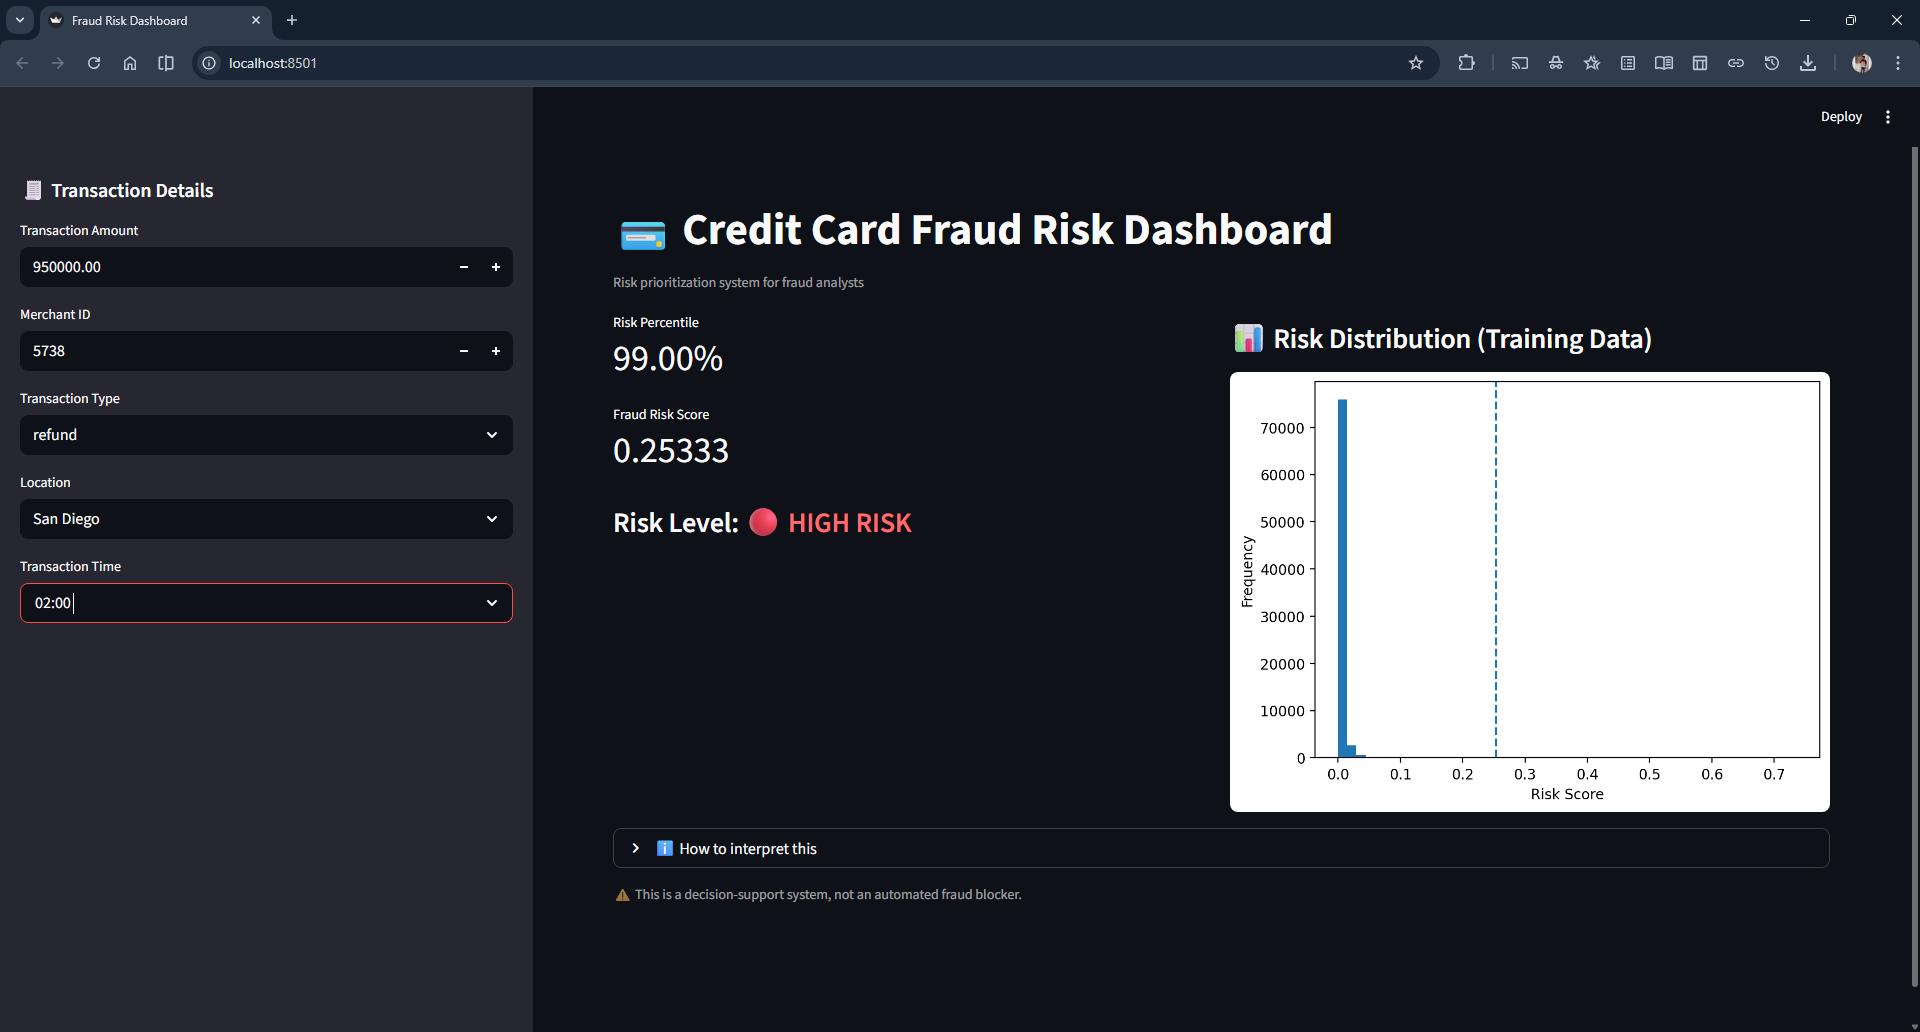
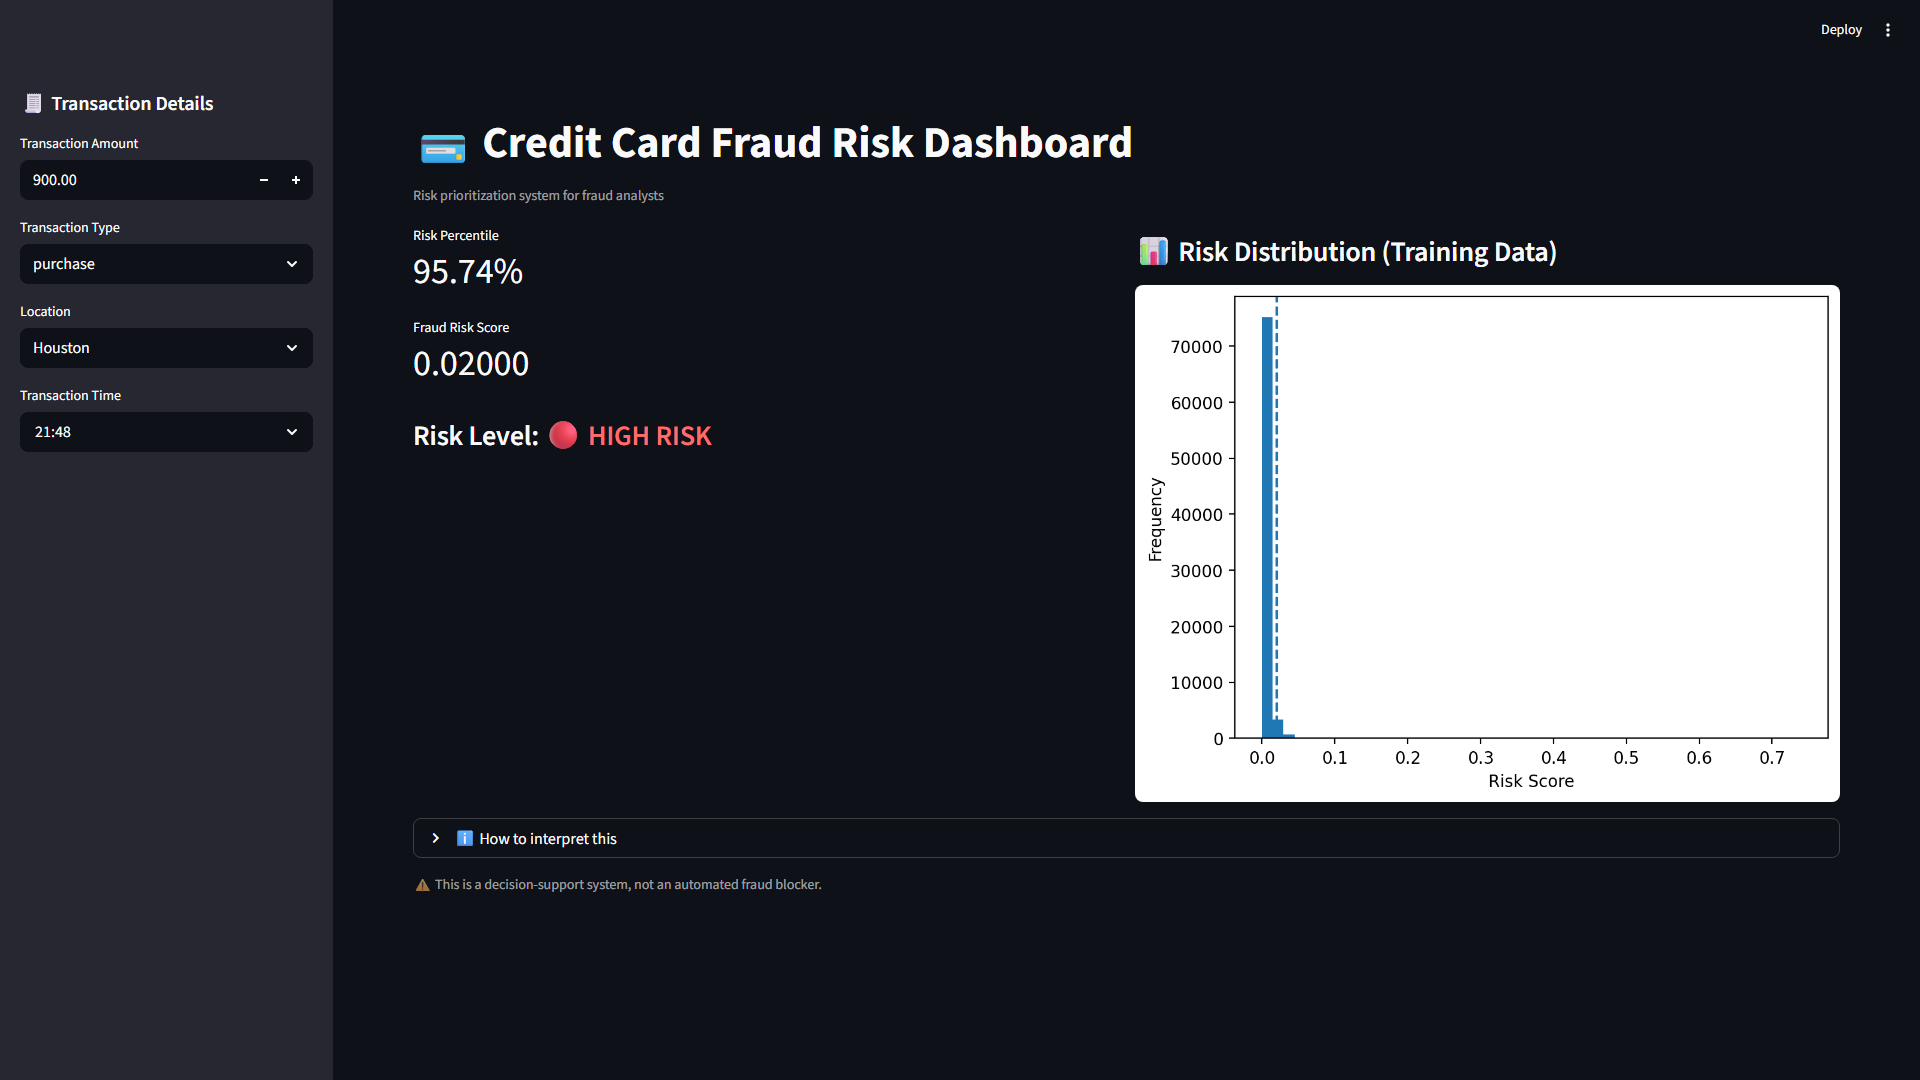
src, backend, frontend and readme.md updation

Changed region(s): [[0.0, 0.0, 1.0, 1.0], [0.3125, 0.186, 0.9688, 0.8062], [0.3125, 0.4961, 0.4688, 0.5271]]

diff --git a/src/components/feature_engineering.py b/src/components/feature_engineering.py
@@ -6,7 +6,7 @@ Handles feature extraction and preprocessing for fraud detection
 import pandas as pd
 import numpy as np
 from datetime import datetime
-from typing import List
+from typing import List, Optional
 
 from src.logger import get_logger
 from src.exception import FeatureEngineeringError
@@ -105,18 +105,7 @@ class FeatureEngineering:
             # Extract temporal features
             df = self.extract_temporal_features(df)
 
-            # Aggregated merchant/location features (computed on available df)
-            if "MerchantID" in df.columns:
-                df["merchant_fraud_rate"] = df.groupby("MerchantID")["IsFraud"].transform("mean")
-                df["amount_vs_merchant_mean"] = df["Amount"] / df.groupby("MerchantID")["Amount"].transform("mean")
-                df["merchant_txn_count"] = df.groupby("MerchantID")["MerchantID"].transform("count")
-                df["merchant_fraud_rate"] = df["merchant_fraud_rate"].fillna(0)
-                df["amount_vs_merchant_mean"] = df["amount_vs_merchant_mean"].fillna(0)
-                df["merchant_txn_count"] = df["merchant_txn_count"].fillna(0)
 
-            if "Location" in df.columns:
-                df["location_fraud_rate"] = df.groupby("Location")["IsFraud"].transform("mean")
-                df["location_fraud_rate"] = df["location_fraud_rate"].fillna(0)
 
             # high amount flag
             df["high_amount"] = (df["Amount"] > df["Amount"].quantile(0.95)).astype(int)
@@ -134,7 +123,6 @@ class FeatureEngineering:
     def prepare_user_input(
         self,
         amount: float,
-        merchant_id: int,
         transaction_type: str,
         location: str,
         transaction_time: datetime,
@@ -146,7 +134,6 @@ class FeatureEngineering:
 
         Args:
             amount: Transaction amount
-            merchant_id: Merchant ID
             transaction_type: Type of transaction (purchase/refund)
             location: Transaction location
             transaction_time: Time of transaction
@@ -166,14 +153,18 @@ class FeatureEngineering:
         weekday = now.weekday()
         is_weekend = int(weekday in [5, 6])
 
-        # Base input dictionary
+        # Base input dictionary (only include MerchantID if provided)
+        is_night = int(hour >= 0 and hour <= 5)
+        high_amount = int(amount > 1000)
+
         input_dict = {
             "Amount": amount,
-            "MerchantID": merchant_id,
             "hour": hour,
             "day": day,
             "weekday": weekday,
-            "is_weekend": is_weekend
+            "is_weekend": is_weekend,
+            "is_night": is_night,
+            "high_amount": high_amount
         }
 
         # Initialize all expected columns with 0

diff --git a/app.py b/app.py
@@ -40,10 +40,17 @@ prediction_pipeline = load_prediction_pipeline()
 # -------------------------------
 # SIDEBAR INPUTS
 # -------------------------------
+if "transaction_time" not in st.session_state:
+    st.session_state.transaction_time = datetime.datetime.now().time()
+
 st.sidebar.header("🧾 Transaction Details")
 
-amount = st.sidebar.number_input("Transaction Amount", 1.0, 1000000.0, 2500.0)
-# Merchant ID removed to match notebook (not used as a direct feature)
+amount = st.sidebar.number_input(
+    "Transaction Amount",
+    1.0,
+    1000000.0,
+    2500.0
+)
 
 transaction_type = st.sidebar.selectbox(
     "Transaction Type",
@@ -55,7 +62,14 @@ location = st.sidebar.selectbox(
     LOCATIONS
 )
 
-transaction_time = st.sidebar.time_input("Transaction Time")
+
+transaction_time = st.sidebar.time_input(
+    "Transaction Time",
+    value=st.session_state.transaction_time,
+    step=60
+)
+
+st.session_state.transaction_time = transaction_time
 
 # -------------------------------
 # FEATURE ENGINEERING
@@ -66,7 +80,8 @@ hour = transaction_time.hour
 day = now.day
 weekday = now.weekday()
 is_weekend = int(weekday in [5, 6])
-
+is_night = int(hour >= 0 and hour <= 5)
+high_amount = int(amount > 1000)
 # Prepare transaction data for prediction
 transaction_data = {
     "Amount": amount,
@@ -75,7 +90,9 @@ transaction_data = {
     "hour": hour,
     "day": day,
     "weekday": weekday,
-    "is_weekend": is_weekend
+    "is_weekend": is_weekend,
+    "is_night": is_night,
+    "high_amount": high_amount
 }
 
 # -------------------------------
@@ -101,7 +118,7 @@ with col2:
     st.markdown("### 📊 Risk Distribution (Training Data)")
     fig, ax = plt.subplots()
     ax.hist(prediction_pipeline.reference_scores, bins=50)
-    ax.axvline(risk_score, linestyle="--")
+    ax.axvline(risk_score, linestyle="--", linewidth=2)
     ax.set_xlabel("Risk Score")
     ax.set_ylabel("Frequency")
     st.pyplot(fig)

diff --git a/src/pipeline/training_pipeline.py b/src/pipeline/training_pipeline.py
@@ -128,19 +128,13 @@ class TrainingPipeline:
 
             # 8. Save Artifacts
             print("\n[8/8] Saving Artifacts...")
-            # compute and prepare aggregate mappings from training dataframe
-            mappings = {}
-            if "MerchantID" in df.columns:
-                mappings["merchant_fraud_rate"] = df.groupby("MerchantID")["IsFraud"].mean().to_dict()
-            if "Location" in df.columns:
-                mappings["location_fraud_rate"] = df.groupby("Location")["IsFraud"].mean().to_dict()
+
 
             self._save_artifacts(
                 models["random_forest"],
                 preprocessor,
                 X.columns.tolist(),
                 models["random_forest"].predict_proba(X_train_p)[:, 1],
-                mappings=mappings
             )
 
             print("\n" + "=" * 80)
@@ -163,7 +157,7 @@ class TrainingPipeline:
             print(f"\n❌ Pipeline failed with error: {str(e)}")
             raise
 
-    def _save_artifacts(self, model, preprocessor, feature_columns, train_risk_scores, mappings: dict = None):
+    def _save_artifacts(self, model, preprocessor, feature_columns, train_risk_scores):
         """
         Save trained model and preprocessing artifacts
 
@@ -190,13 +184,7 @@ class TrainingPipeline:
         np.save(reference_scores_path, train_risk_scores)
 
         print("✅ All artifacts saved successfully!")
-        # save mappings if provided
-        if mappings:
-            try:
-                with open(self.artifacts_dir / "aggregate_mappings.json", "w", encoding="utf-8") as f:
-                    json.dump(mappings, f)
-            except Exception:
-                self.logger.warning("Failed to save aggregate_mappings.json")
+
 
 if __name__ == "__main__":
     pipeline = TrainingPipeline()

diff --git a/src/utils.py b/src/utils.py
@@ -27,17 +27,12 @@ REFERENCE_SCORES_PATH = ARTIFACTS_DIR / "reference_scores.npy"
 # Feature configuration
 NUMERIC_FEATURES = [
     "Amount",
-    "MerchantID",
     "hour",
     "day",
     "weekday",
     "is_weekend",
     "is_night",
     "high_amount",
-    "merchant_fraud_rate",
-    "location_fraud_rate",
-    "amount_vs_merchant_mean",
-    "merchant_txn_count",
 ]
 
 CATEGORICAL_FEATURES = ["TransactionType", "Location"]
@@ -69,8 +64,8 @@ RF_PARAMS = {
 }
 
 # Risk thresholds
-HIGH_RISK_THRESHOLD = 98.5  # percentile
-MEDIUM_RISK_THRESHOLD = 95   # percentile
+HIGH_RISK_THRESHOLD = 95  # percentile
+MEDIUM_RISK_THRESHOLD = 90  # percentile
 
 # Locations for the app
 LOCATIONS = [

diff --git a/src/pipeline/prediction_pipeline.py b/src/pipeline/prediction_pipeline.py
@@ -52,18 +52,7 @@ class PredictionPipeline:
         # Load artifacts
         self._load_artifacts()
 
-        # Load aggregate mappings if available
-        self.aggregate_mappings: Dict[str, Dict] = {}
 
-        agg_path = self.artifacts_dir / "aggregate_mappings.json"
-
-        if agg_path.exists():
-            try:
-                with open(agg_path, "r", encoding="utf-8") as f:
-                    self.aggregate_mappings = json.load(f)
-
-            except Exception:
-                self.logger.warning("Failed to load aggregate_mappings.json")
 
         self.logger.info("PredictionPipeline initialized")
 

diff --git a/src/components/data_ingestion.py b/src/components/data_ingestion.py
@@ -76,8 +76,9 @@ class DataIngestion:
         Returns:
             True if valid, raises exception if invalid
         """
+        # MerchantID is optional (not required by notebook workflow)
         required_columns = [
-            "TransactionID", "TransactionDate", "Amount", "MerchantID",
+            "TransactionID", "TransactionDate", "Amount",
             "TransactionType", "Location", "IsFraud"
         ]
 

diff --git a/README.md b/README.md
@@ -81,6 +81,21 @@ Traditional metrics like accuracy were **intentionally avoided**.
 
 ---
 
+## 🧠 Engineered Features
+
+The model uses lightweight but business-relevant engineered features:
+
+* Transaction Amount
+* Hour of Transaction
+* Day & Weekday
+* Weekend Transaction Flag
+* Night Transaction Flag
+* High Amount Transaction Flag
+* Transaction Type
+* Transaction Location
+
+---
+
 ## 🖥 Streamlit Dashboard Features
 
 * Transaction input form
@@ -95,7 +110,7 @@ Traditional metrics like accuracy were **intentionally avoided**.
 
 ### Transaction Risk Evaluation Example
 
-* **Input**: Transaction amount, merchant, location, time
+* **Input**: Transaction amount, location, transaction type, time
 * **Output**:
 
   * Fraud Risk Score
@@ -208,6 +223,14 @@ streamlit run app.py
 
 Dashboard will be available at: `http://localhost:8501`
 
+### 4⃣ Run the backend (FastAPI):
+
+```bash
+uvicorn app.main:app --reload
+```
+
+Backend default URL: 'http://127.0.0.1:8000'
+
 ---
 
 ## 💡 Using Components Directly
@@ -246,7 +269,6 @@ pipeline = PredictionPipeline()
 # Single prediction
 result = pipeline.predict_risk({
     "amount": 1500.0,
-    "merchant_id": 42,
     "transaction_type": "purchase",
     "location": "New York",
     "transaction_time": "2024-01-15T14:30:00"
